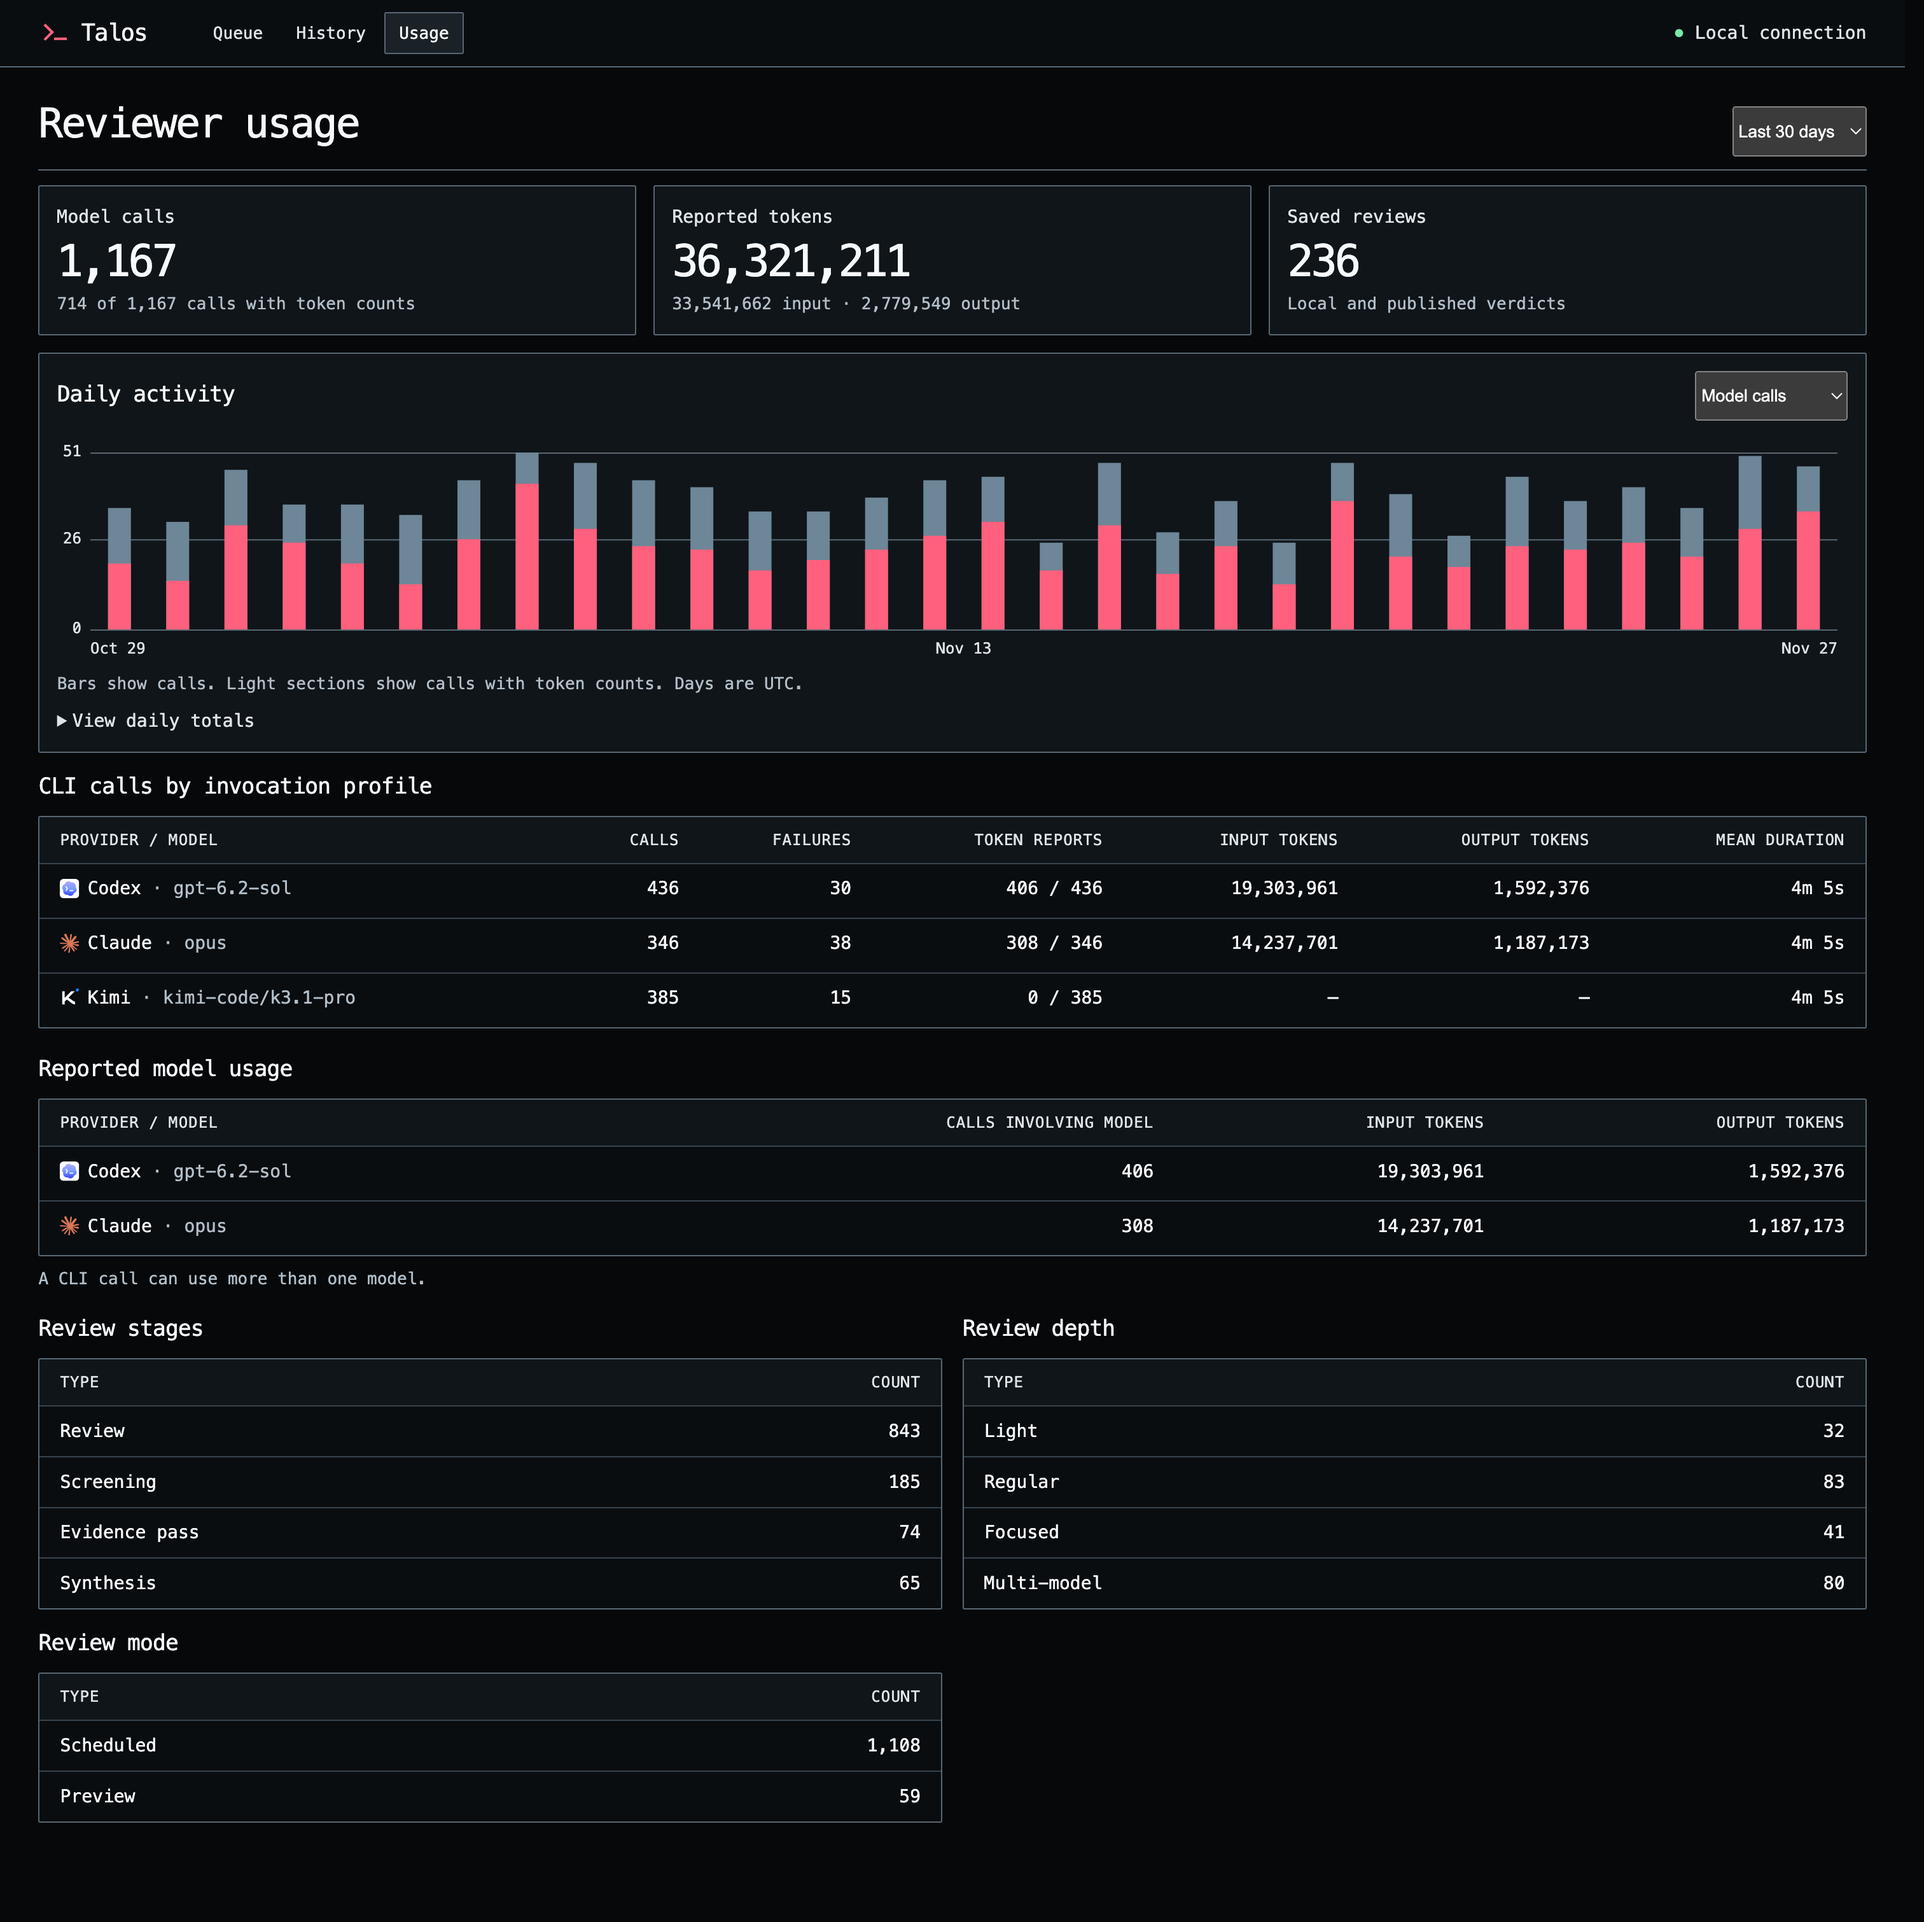
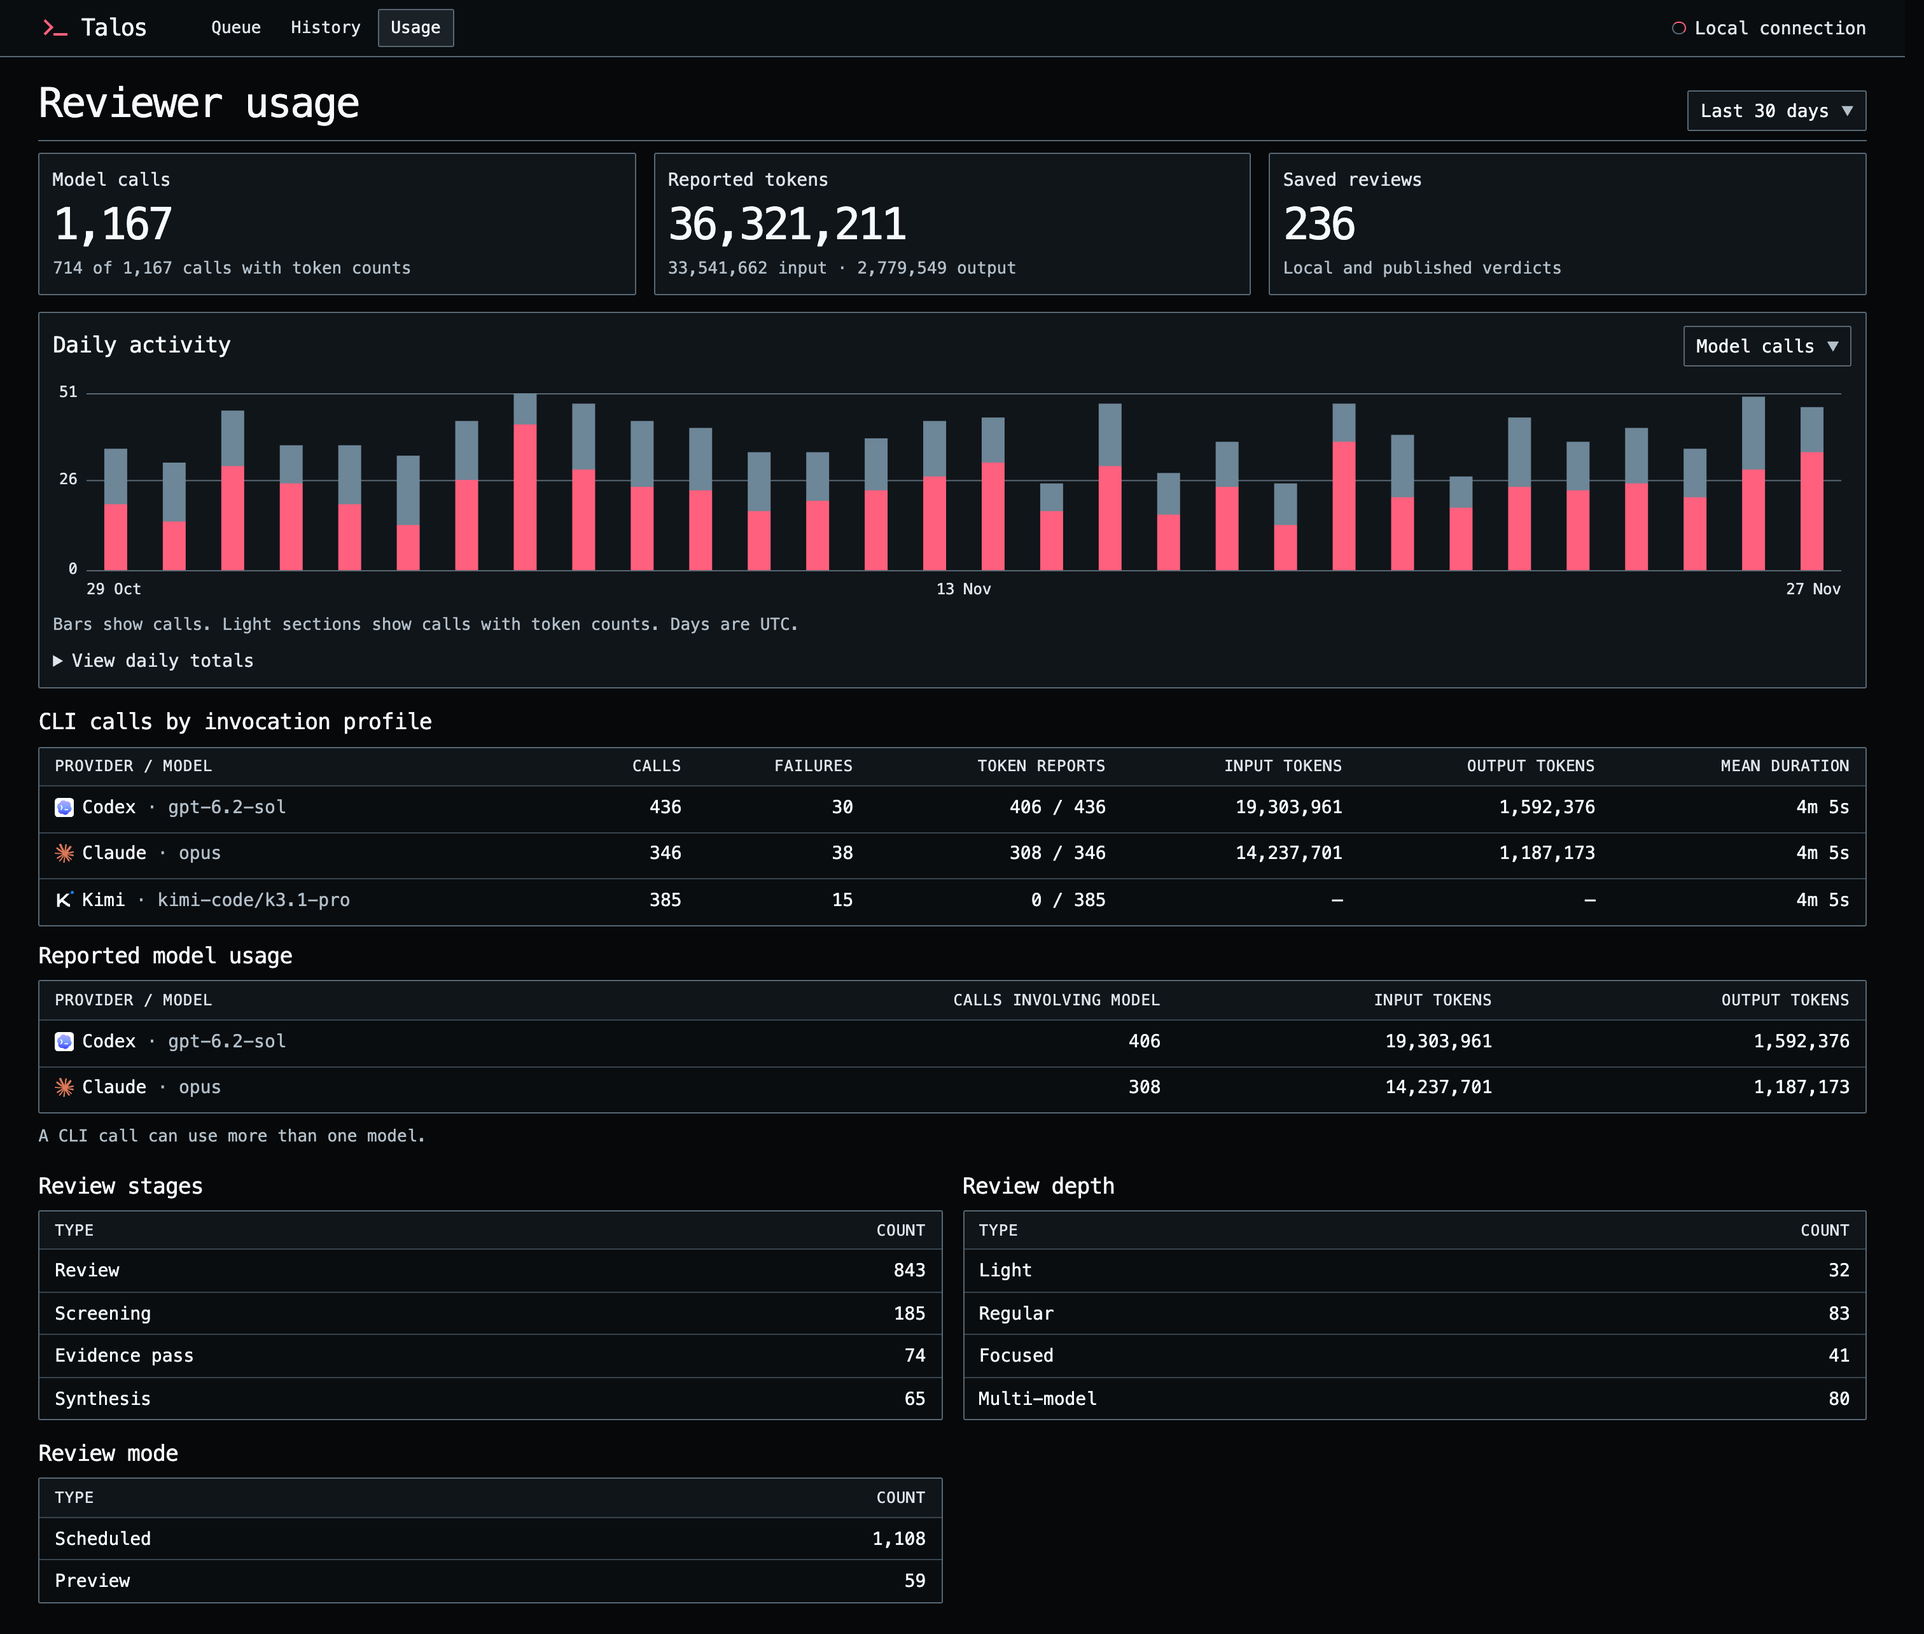
fix: tighten dashboard spacing and theme select menus (#31)
Tighten dashboard spacing and theme the browser select picker.

diff --git a/src/dashboard_web/app.css b/src/dashboard_web/app.css
@@ -20,6 +20,7 @@
   --focus: #8ce5ff;
   --chart-secondary: #6d8698;
   --corner: .1rem;
+  --control-height: 2rem;
   --mono: ui-monospace, "SFMono-Regular", Menlo, Consolas, monospace;
   --sans: -apple-system, BlinkMacSystemFont, "Segoe UI", sans-serif;
 }
@@ -82,7 +83,7 @@ ul { padding: 0; margin: 0; }
   display: flex;
   align-items: center;
   gap: clamp(1rem, 3vw, 2.5rem);
-  min-height: 3.25rem;
+  min-height: 2.75rem;
 }
 .wordmark {
   display: inline-flex;
@@ -121,7 +122,7 @@ ul { padding: 0; margin: 0; }
 .shell-inner nav a {
   display: grid;
   place-items: center;
-  padding: .37rem .68rem;
+  padding: .24rem .6rem;
   border: 1px solid transparent;
   border-radius: var(--corner);
   color: var(--muted);
@@ -160,24 +161,24 @@ ul { padding: 0; margin: 0; }
   animation: refresh-spin .78s linear infinite;
 }
 @keyframes refresh-spin { to { transform: rotate(1turn); } }
-.page { padding-top: clamp(.95rem, 2vw, 1.55rem); padding-bottom: 2.5rem; }
+.page { padding-top: clamp(.75rem, 1.4vw, 1.05rem); padding-bottom: 2rem; }
 .page:focus { outline: none; }
 .page-heading {
   display: flex;
   align-items: baseline;
   justify-content: space-between;
-  gap: .7rem 1.5rem;
+  gap: .45rem 1rem;
   flex-wrap: wrap;
   border-bottom: 1px solid var(--line);
-  padding-bottom: .62rem;
-  margin-bottom: .72rem;
+  padding-bottom: .43rem;
+  margin-bottom: .55rem;
 }
 .queue-summary { display: flex; flex-wrap: wrap; gap: .35rem; color: var(--muted); font-size: .8125rem; }
 .queue-stat {
   display: inline-flex;
   align-items: center;
-  gap: .45rem;
-  padding: .24rem .5rem;
+  gap: .36rem;
+  padding: .12rem .4rem;
   border: 1px solid var(--soft-line);
   border-radius: var(--corner);
   background: var(--header);
@@ -190,49 +191,75 @@ ul { padding: 0; margin: 0; }
   display: grid;
   grid-template-columns: minmax(0, 1fr) minmax(16rem, 20rem);
   align-items: start;
-  gap: clamp(.85rem, 2vw, 1.45rem);
+  gap: clamp(.65rem, 1.4vw, 1rem);
 }
 .queue-main, .rail, .table-wrap { min-width: 0; }
-.rail { display: grid; gap: .95rem; }
+.rail { display: grid; gap: .65rem; }
 .panel {
-  padding: .85rem;
+  padding: .65rem;
   border: 1px solid var(--line);
   border-radius: var(--corner);
   background: var(--surface);
 }
-.panel h2 { margin-bottom: .72rem; }
+.panel h2 { margin-bottom: .52rem; }
 .queue-panel { box-shadow: inset 0 2px var(--action-border); }
 .section-heading {
   display: flex;
   align-items: baseline;
   justify-content: space-between;
   gap: .6rem;
-  margin-bottom: .8rem;
+  margin-bottom: .52rem;
 }
 .section-heading h2 { margin: 0; }
-.subsection { margin-top: 1.35rem; }
+.subsection { margin-top: .85rem; }
 
 .toolbar {
   display: flex;
   flex-wrap: wrap;
   align-items: center;
-  gap: .5rem;
-  margin-bottom: .75rem;
+  gap: .38rem;
+  margin-bottom: .55rem;
 }
 .search-field { flex: 1 1 11rem; min-width: 0; }
 .search-field input { width: 100%; }
+input:not([type="checkbox"]):not([type="radio"]), .button, select {
+  min-height: var(--control-height);
+}
 input:not([type="checkbox"]):not([type="radio"]), .button {
   border: 1px solid var(--line);
   border-radius: var(--corner);
-  min-height: 2.45rem;
-  padding: .49rem .7rem;
+  padding: .24rem .58rem;
 }
 input:not([type="checkbox"]):not([type="radio"]) {
   background: var(--surface);
   color: var(--text);
 }
 input::placeholder { color: var(--dim); }
-select { min-height: 2.45rem; }
+@supports (appearance: base-select) and selector(::picker(select)) {
+  select, select::picker(select) {
+    appearance: base-select;
+    border: 1px solid var(--line);
+    border-radius: var(--corner);
+    background: var(--surface);
+    color: var(--text);
+    font: inherit;
+  }
+  select {
+    align-items: center;
+    gap: .6rem;
+    padding: .24rem .58rem;
+  }
+  select:focus-visible { outline: 2px solid var(--focus); outline-offset: 3px; }
+  select::picker-icon { color: var(--dim); }
+  select::picker(select) {
+    padding: .15rem;
+    margin-block: .2rem;
+    box-shadow: 0 .3rem 1rem #0009;
+  }
+  select option { min-height: var(--control-height); padding: .24rem .48rem; }
+  select option:checked { color: var(--accent); }
+  select option:is(:hover, :focus-visible) { background: var(--raised); }
+}
 .button {
   display: inline-flex;
   justify-content: center;
@@ -245,8 +272,8 @@ select { min-height: 2.45rem; }
 .button-secondary:hover:not(:disabled) { background: var(--raised); border-color: var(--dim); }
 .button-primary { color: var(--action-ink); background: var(--action); border-color: var(--action-border); }
 .button-primary:hover:not(:disabled) { background: var(--action-hover); }
-.queue-panel form { display: grid; gap: .65rem; }
-.queue-actions { display: grid; gap: .45rem; }
+.queue-panel form { display: grid; gap: .48rem; }
+.queue-actions { display: grid; gap: .36rem; }
 .queue-target-status { color: var(--dim); font-size: .875rem; }
 .segmented {
   display: grid;
@@ -275,17 +302,17 @@ select { min-height: 2.45rem; }
 }
 .segmented input:checked + span { color: var(--text); background: var(--raised); }
 .segmented input:focus-visible + span { outline: 2px solid var(--focus); outline-offset: -2px; }
-.field { display: grid; min-width: 0; gap: .37rem; color: var(--muted); font-size: .875rem; }
+.field { display: grid; min-width: 0; gap: .22rem; color: var(--muted); font-size: .875rem; }
 .field > input, .field > select { width: 100%; min-width: 0; }
 .review-focuses { margin: 0; min-width: 0; padding: 0; border: 0; color: var(--muted); font-size: .875rem; }
 .review-focuses legend { padding: 0; }
-.review-focuses p { margin: .15rem 0 .45rem; color: var(--dim); }
-.focus-toggles { display: flex; flex-wrap: wrap; gap: .35rem; }
+.review-focuses p { margin: 0 0 .3rem; color: var(--dim); }
+.focus-toggles { display: flex; flex-wrap: wrap; gap: .25rem; }
 .focus-toggles label { position: relative; }
 .focus-toggles input { position: absolute; opacity: 0; }
 .focus-toggles span {
   display: block;
-  padding: .32rem .55rem;
+  padding: .18rem .44rem;
   border: 1px solid var(--line);
   border-radius: var(--corner);
   background: var(--bg);
@@ -298,6 +325,7 @@ select { min-height: 2.45rem; }
   display: flex;
   align-items: center;
   gap: .5rem;
+  min-height: 1.5rem;
   color: var(--muted);
   font-size: .875rem;
 }
@@ -321,12 +349,12 @@ th {
   text-transform: uppercase;
   white-space: nowrap;
 }
-th, td { padding: .56rem .7rem; vertical-align: top; }
+th, td { padding: .36rem .62rem; vertical-align: top; }
 tbody tr { border-top: 1px solid var(--soft-line); }
 tbody tr:hover { background: var(--surface); }
-th:first-child, td:first-child { padding-left: 1rem; }
-th:last-child, td:last-child { padding-right: 1rem; }
-.review-key { display: grid; gap: .15rem; min-width: 8rem; justify-items: start; }
+th:first-child, td:first-child { padding-left: .74rem; }
+th:last-child, td:last-child { padding-right: .74rem; }
+.review-key { display: grid; gap: .06rem; min-width: 8rem; justify-items: start; }
 .review-keyline { display: flex; align-items: baseline; gap: .55rem; }
 .review-link {
   flex: none;
@@ -407,9 +435,9 @@ th:last-child, td:last-child { padding-right: 1rem; }
 .job-progress {
   min-width: 7rem;
   display: grid;
-  gap: .3rem;
+  gap: .22rem;
   align-content: center;
-  min-height: 2.14rem;
+  min-height: 1.8rem;
 }
 .progress-meta {
   display: flex;
@@ -465,7 +493,7 @@ progress::-moz-progress-bar { background: var(--accent); }
 .time-cell { white-space: nowrap; font-variant-numeric: tabular-nums; }
 .numeric { text-align: right; white-space: nowrap; font-variant-numeric: tabular-nums; }
 .empty {
-  padding: 2rem 1rem;
+  padding: 1.25rem .75rem;
   color: var(--muted);
   text-align: center;
 }
@@ -480,9 +508,11 @@ progress::-moz-progress-bar { background: var(--accent); }
 }
 .repositories { list-style: none; }
 .repositories li {
-  display: grid;
-  gap: .18rem;
-  padding: .39rem 0;
+  display: flex;
+  flex-wrap: wrap;
+  align-items: baseline;
+  gap: 0 .6rem;
+  padding: .28rem 0;
   border-top: 1px solid var(--soft-line);
 }
 .repositories li:first-child { padding-top: .1rem; border-top: 0; }
@@ -494,7 +524,7 @@ progress::-moz-progress-bar { background: var(--accent); }
   font-variant-numeric: tabular-nums;
 }
 .repo-status[data-tone="warning"] { color: var(--warn); }
-.stack-items { display: grid; gap: .5rem; }
+.stack-items { display: grid; gap: .35rem; }
 .stack {
   border: 1px solid var(--line);
   border-left: 3px solid var(--stack-accent, var(--line));
@@ -502,7 +532,7 @@ progress::-moz-progress-bar { background: var(--accent); }
   border-radius: var(--corner);
 }
 .stack summary {
-  padding: .67rem .87rem;
+  padding: .43rem .68rem;
   cursor: pointer;
   font-size: .9rem;
 }
@@ -510,14 +540,14 @@ progress::-moz-progress-bar { background: var(--accent); }
 .stack-list {
   list-style: none;
   display: grid;
-  padding: .1rem .87rem .5rem;
+  padding: .1rem .68rem .35rem;
 }
 .stack-list li {
   display: flex;
   align-items: baseline;
   gap: .55rem;
   flex-wrap: wrap;
-  padding: .45rem .25rem;
+  padding: .3rem .2rem;
   border-top: 1px solid var(--soft-line);
 }
 .stack-list .phase-note { max-width: none; }
@@ -625,6 +655,11 @@ dialog::backdrop { background: #06080ac9; }
 @media (max-width: 61rem) {
   .queue-layout { grid-template-columns: minmax(0, 1fr); }
   .rail { grid-template-columns: repeat(2, minmax(0, 1fr)); }
+}
+
+@media (pointer: coarse) {
+  :root { --control-height: 2.5rem; }
+  .focus-toggles span, .checkbox-field, .stack summary { min-height: var(--control-height); align-content: center; }
 }
 
 @media (max-width: 39rem) {
